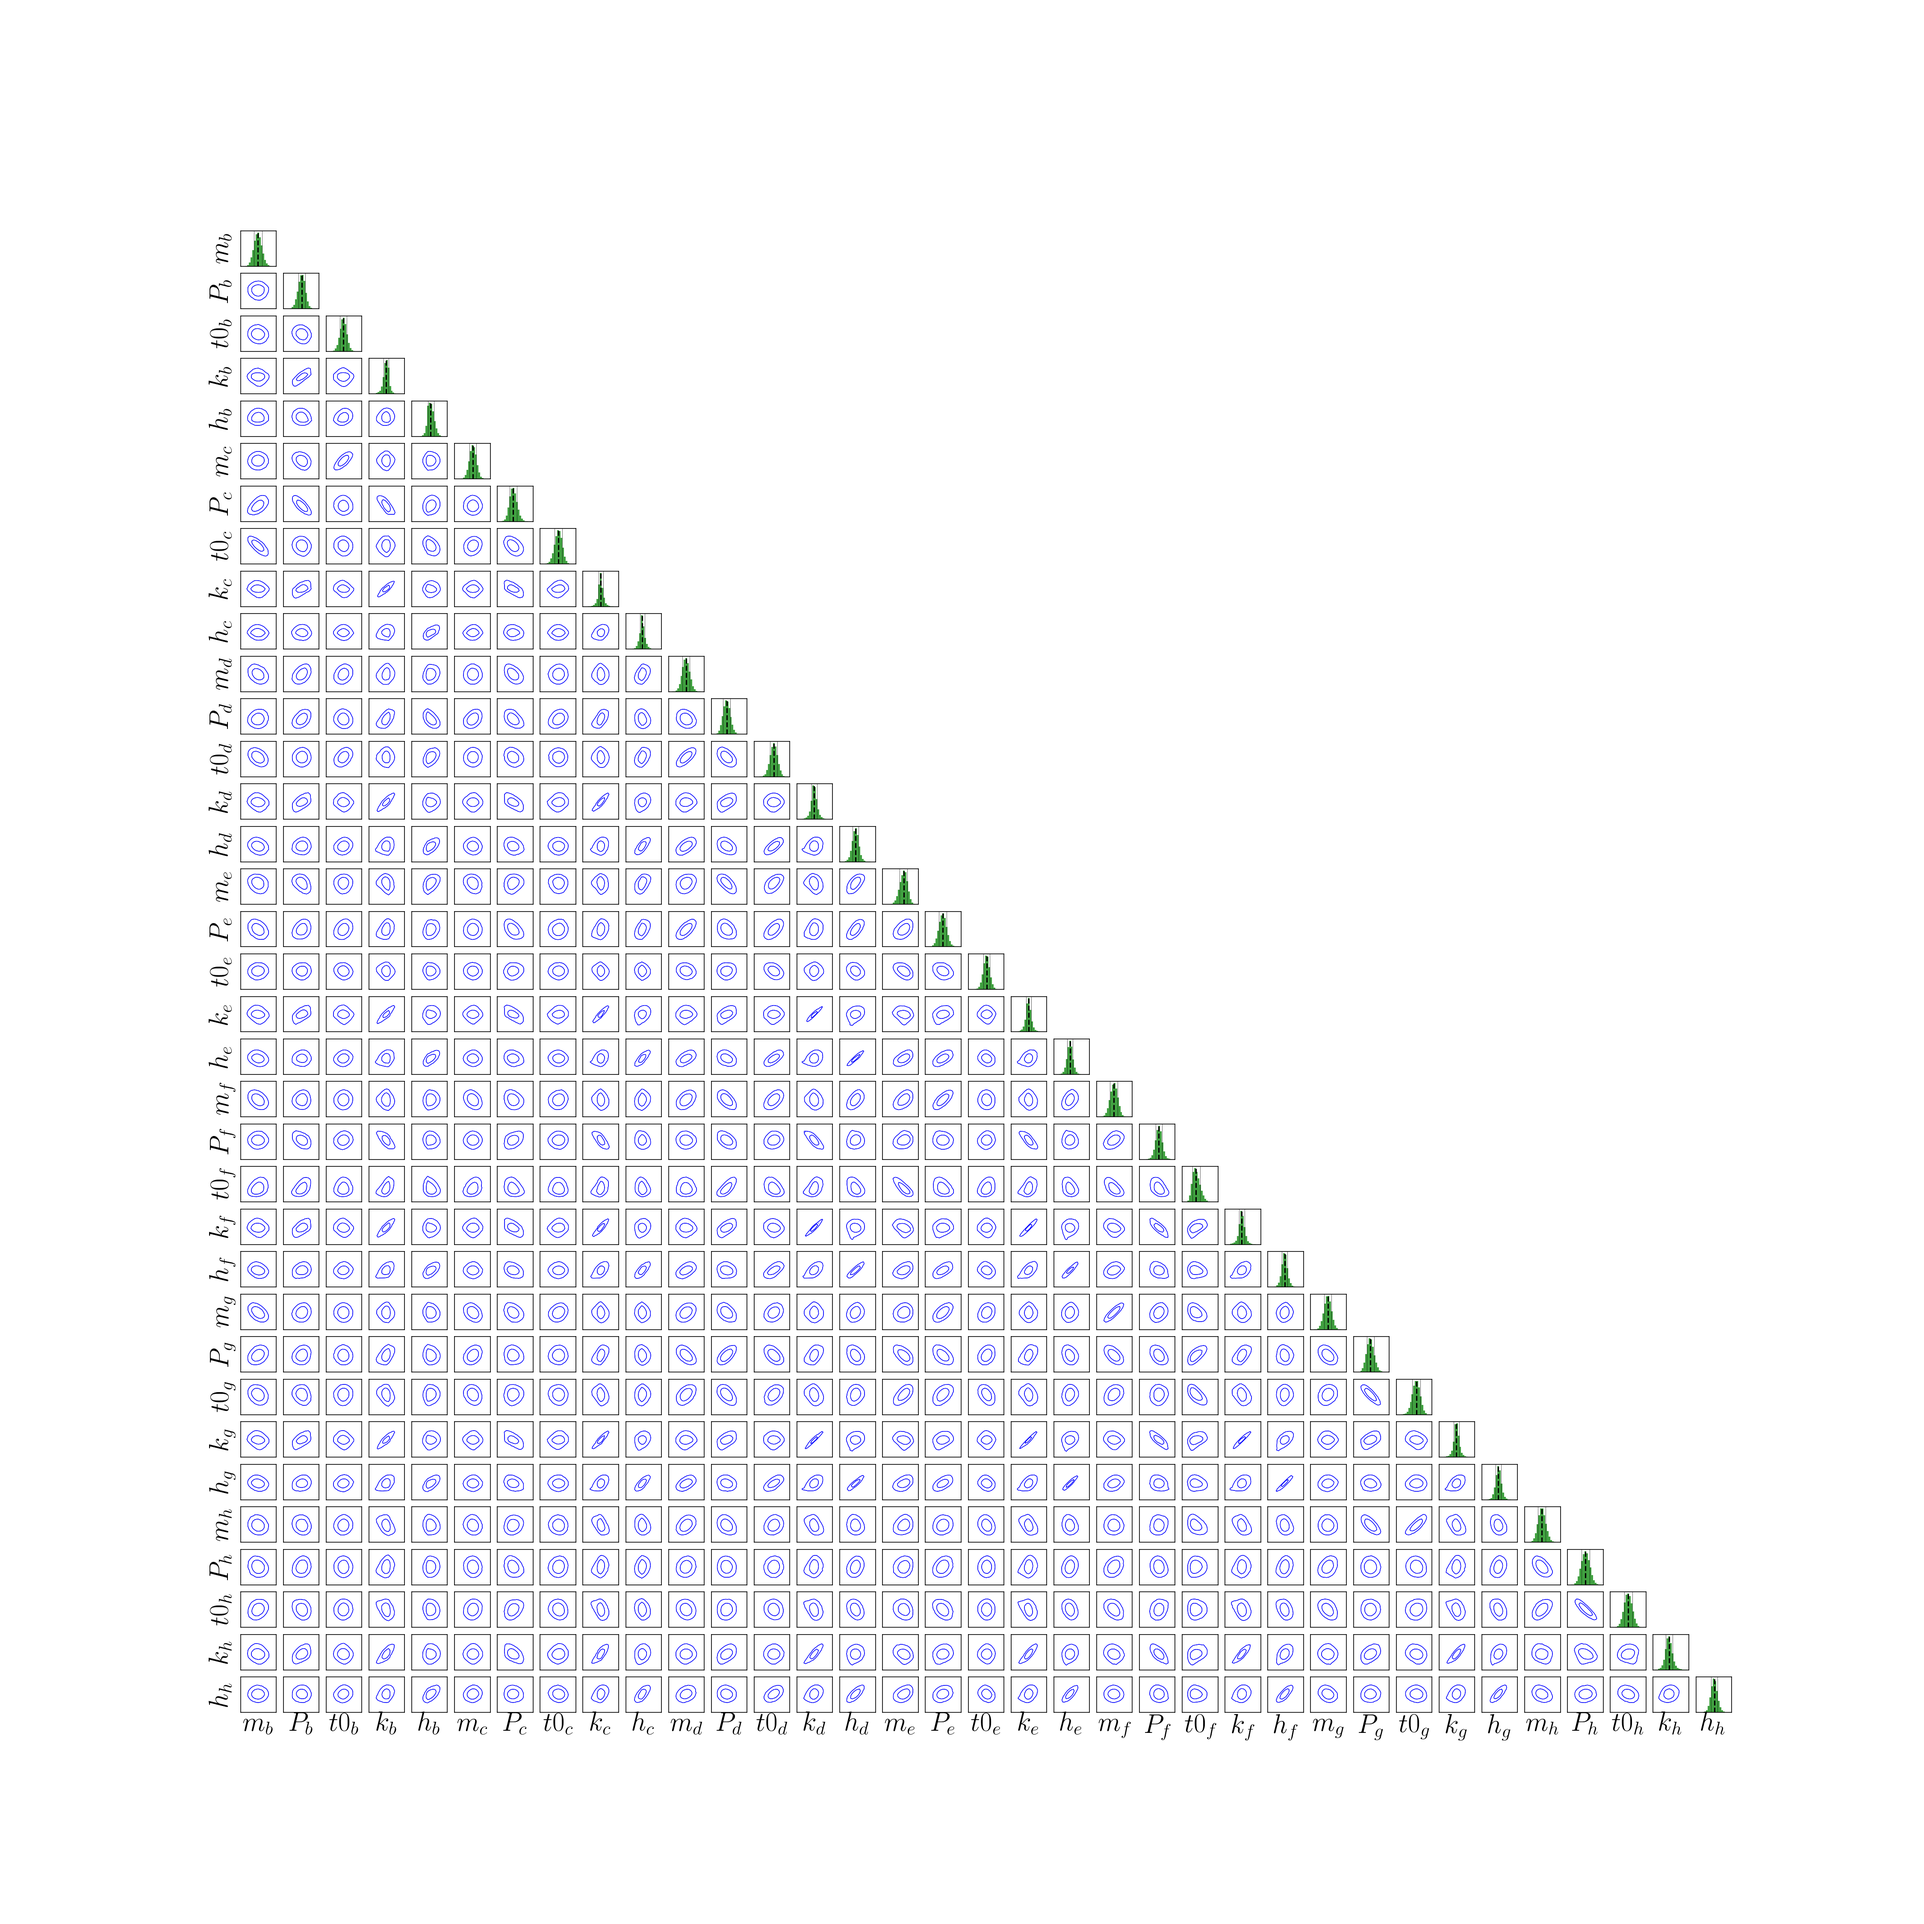
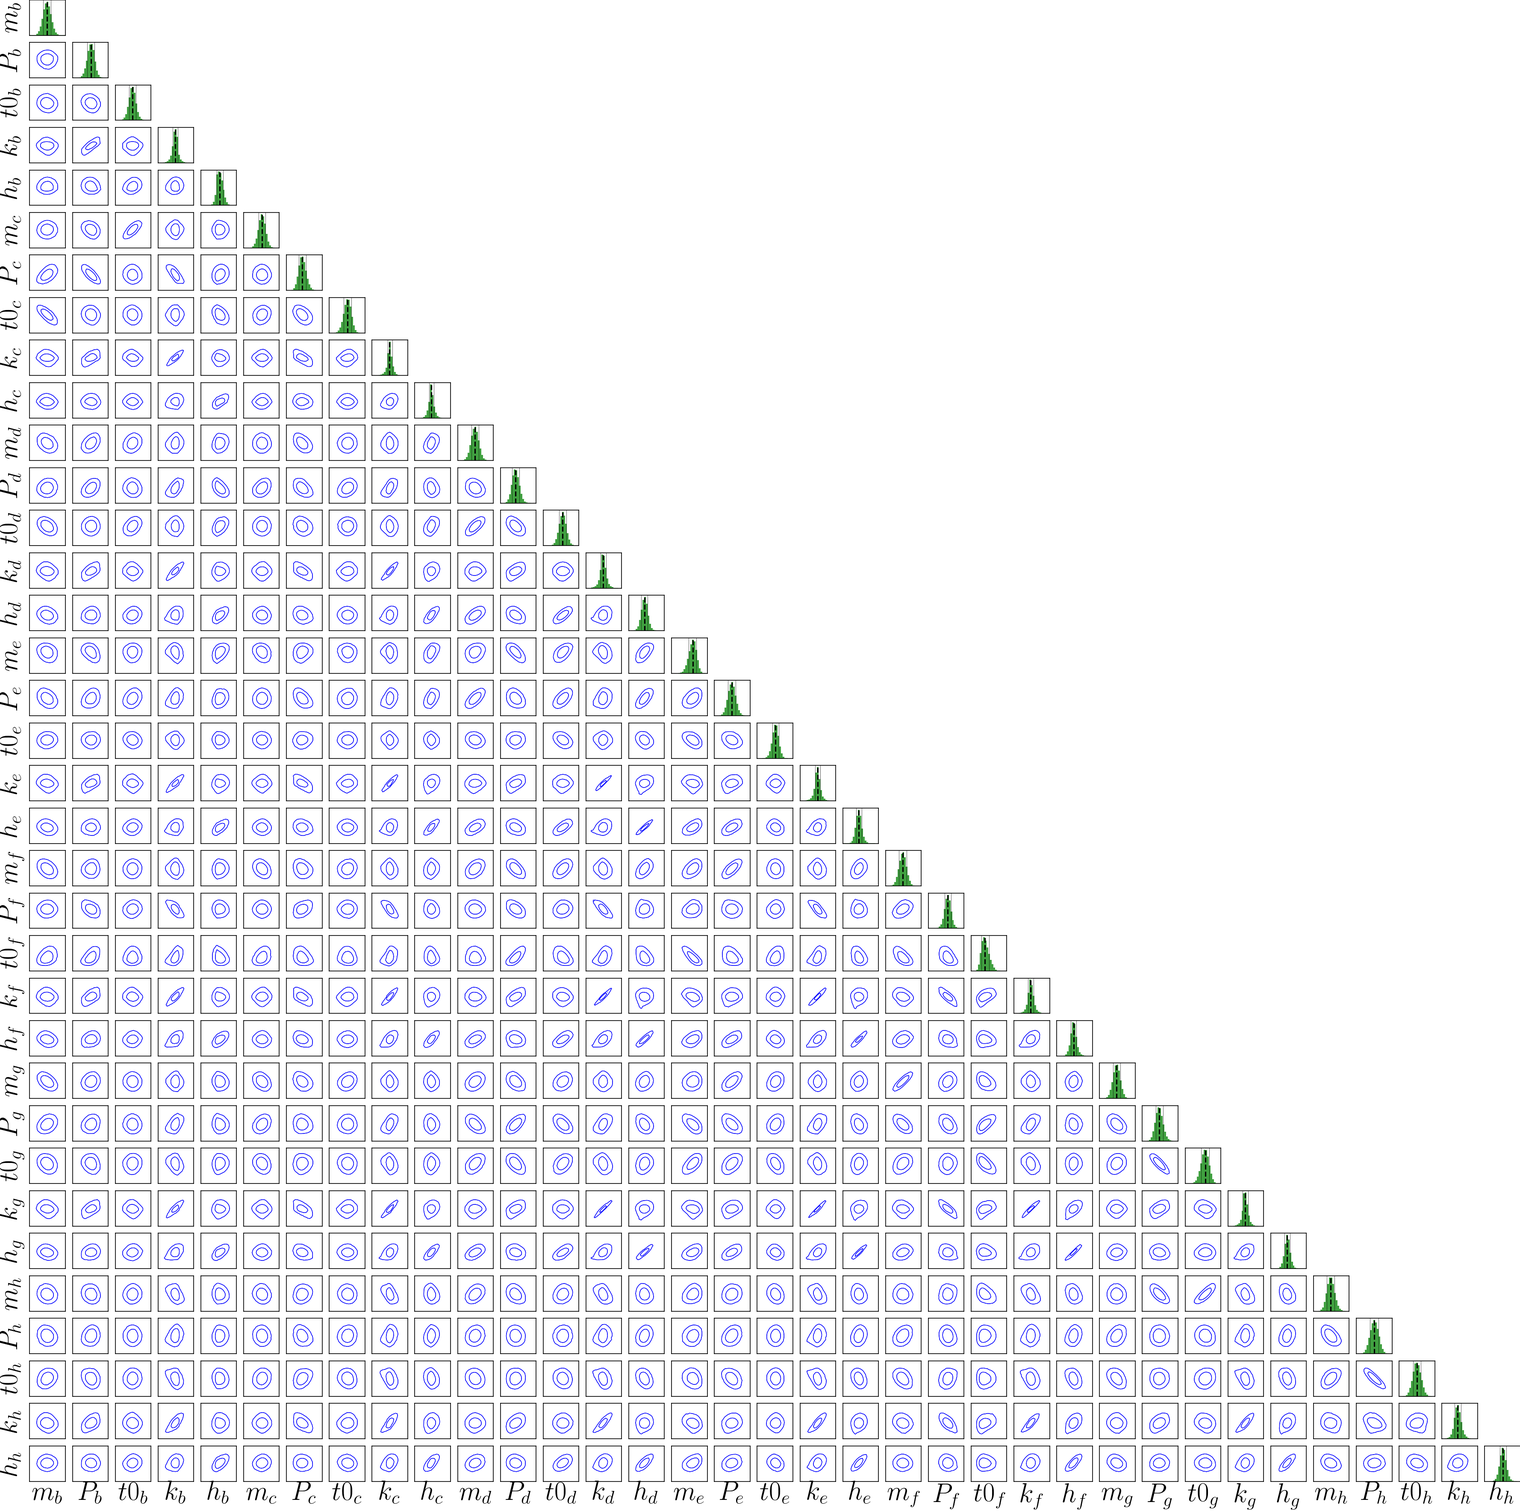
Cropped corner plot; added Linial reference

Changed region(s): [[0.0, 0.0, 0.9989, 0.996]]

diff --git a/tex/refining_trappist1_ttvs.tex b/tex/refining_trappist1_ttvs.tex
@@ -2001,7 +2001,9 @@ The total eccentricity vectors show a wider range of behavior, thanks to a wider
 of the mean eccentricity, as shown in Figure \ref{fig:total_eccentricity}.  It is clear
 from this figure that each planet executes an eccentricity-vector oscillation about a
 mean value (which was subtracted off for figure \ref{fig:forced_eccentricity}).  Unfortunately the mean eccentricity is poorly constrained by the transit-timing
-variations, and so there is a much wider range of eccentricity vectors which is allowed.
+variations \citep{Linial2018}, and so there is a much wider range of eccentricity vectors which is allowed
+\textbf{which manifests as strong correlations amongst the eccentricity vectors of pairs of
+planets (Figure \ref{fig:corner_ttv}).}
 
 \begin{figure}
     \centering

diff --git a/tex/figures/python/plotCorner_photdyn.py b/tex/figures/python/plotCorner_photdyn.py
@@ -20,7 +20,7 @@ pl.figure(figsize=(30, 30))
 #file = 'state_total.txt'
 file = '../../../data/state_total.txt'
 
-n = 35
+n = 19
 
 for i in range(0, n, 1):
 	for j in range(0, i + 1, 1):
@@ -157,5 +157,5 @@ for i in range(0, n, 1):
 		pl.yticks([])
 
 
-name = '../corner_ttv.png'
-pl.savefig(name, format='png', dpi=150)
+name = '../corner_photdyn.png'
+pl.savefig(name, format='png', dpi=150,bbox_inches='tight',pad_inches=0)
